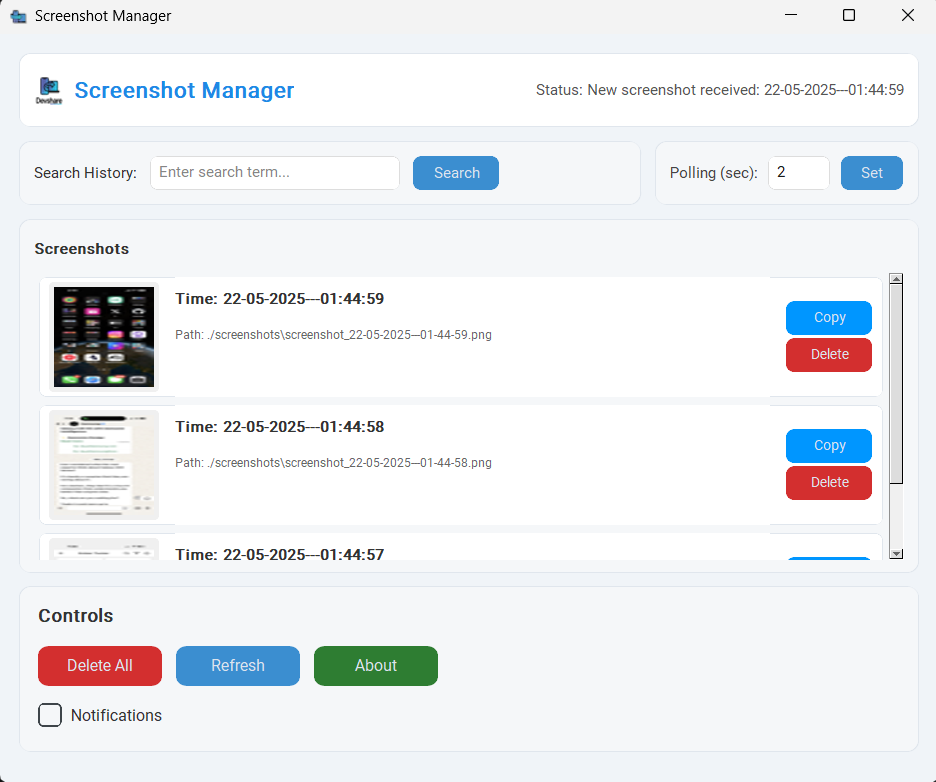
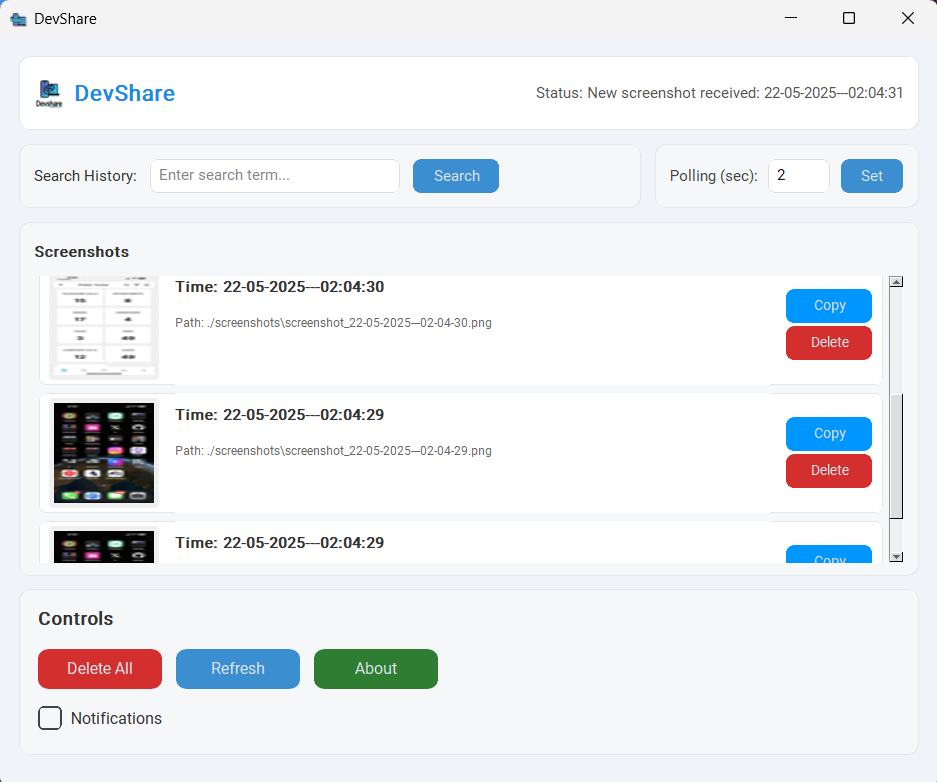
App name updated

diff --git a/modules/ui.py b/modules/ui.py
@@ -53,7 +53,7 @@ class ScreenshotUI:
         
         # Create the main window
         self.root = ctk.CTk()
-        self.root.title("Screenshot Manager")
+        self.root.title("DevShare")
         self.root.geometry("750x600")  # Smaller window size
         self.root.minsize(700, 500)
         
@@ -108,7 +108,7 @@ class ScreenshotUI:
         # App title with better font but slightly smaller
         title_label = ctk.CTkLabel(
             header_frame,
-            text="Screenshot Manager",
+            text="DevShare",
             font=ctk.CTkFont(size=18, weight="bold"),  # Reduced font size
             text_color="#1E88E5"
         )

diff --git a/README.md b/README.md
@@ -1,11 +1,11 @@
 <p align="center">
   <a href="https://github.com/Rkcr7/DevShare">
-    <img src="public/logo-big.png" alt="Screenshot Manager Logo" width="150"/>
+    <img src="public/logo-big.png" alt="DevShare Logo" width="150"/>
   </a>
 </p>
 
 <h1 align="center">
-  <a href="https://github.com/Rkcr7/DevShare">Screenshot Manager</a>
+  <a href="https://github.com/Rkcr7/DevShare">DevShare</a>
 </h1>
 
 <p align="center">
@@ -34,10 +34,10 @@
 
 ## 📸 Overview
 
-Screenshot Manager is a cross-platform productivity tool that seamlessly transfers screenshots from your phone to your computer with zero friction. It automatically copies received screenshots to your clipboard, making them instantly available for pasting in any application.
+DevShare is a cross-platform productivity tool that seamlessly transfers screenshots from your phone to your computer with zero friction. It automatically copies received screenshots to your clipboard, making them instantly available for pasting in any application.
 
 <p align="center">
-  <img src="screenshots/screenshot_example.png" alt="Screenshot Manager Demo" width="700"/>
+  <img src="screenshots/screenshot_example.png" alt="DevShare Demo" width="700"/>
 </p>
 
 ## 🚀 Features
@@ -94,7 +94,7 @@ Gather visual data efficiently:
 
 ## 🔑 Getting Started
 
-Before installation, you'll need your Telegram ID to authenticate with the service:
+Before installing DevShare, you'll need your Telegram ID to authenticate with the service:
 
 1. Open Telegram on your phone or desktop
 2. Search for the bot named **@userinfobot**
@@ -102,7 +102,7 @@ Before installation, you'll need your Telegram ID to authenticate with the servi
 4. The bot will reply with your Telegram User ID (a number like `123456789`)
 5. Note this number as you'll need it during setup
 
-Once installed, you'll use the official Screenshot Manager bot:
+Once installed, you'll use the official DevShare bot:
 - Search for **@Screenshot_rk7_bot** in Telegram
 - Or visit directly: [t.me/Screenshot_rk7_bot](https://t.me/Screenshot_rk7_bot)
 - Only your authorized device will receive the screenshots you send to this bot
@@ -119,7 +119,7 @@ cd DevShare
 setup.bat
 
 # 3. Launch the application
-run_screenshot_manager.bat
+run_devshare.bat
 ```
 
 ### Linux/macOS
@@ -129,13 +129,13 @@ git clone https://github.com/Rkcr7/DevShare.git
 cd DevShare
 
 # 2. Make scripts executable
-chmod +x setup.sh run_screenshot_manager.sh
+chmod +x setup.sh run_devshare.sh
 
 # 3. Run the setup script
 ./setup.sh
 
 # 4. Launch the application
-./run_screenshot_manager.sh
+./run_devshare.sh
 ```
 
 ### Manual Installation
